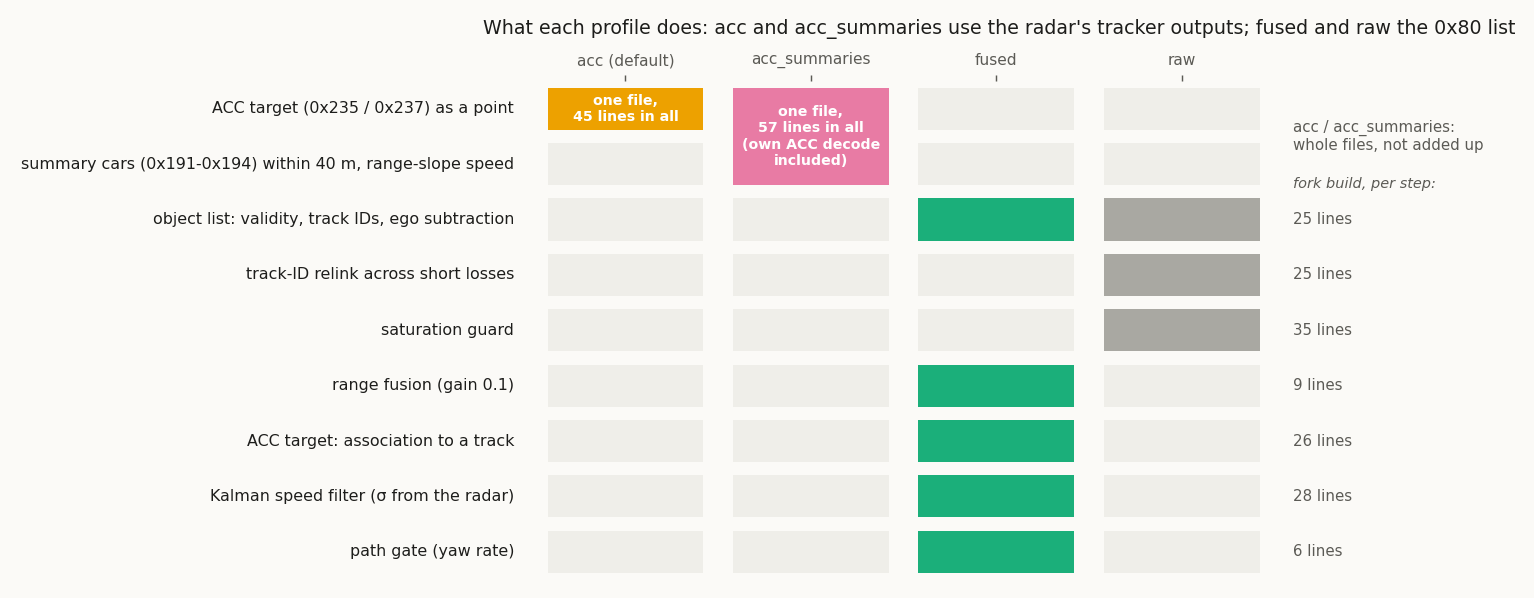
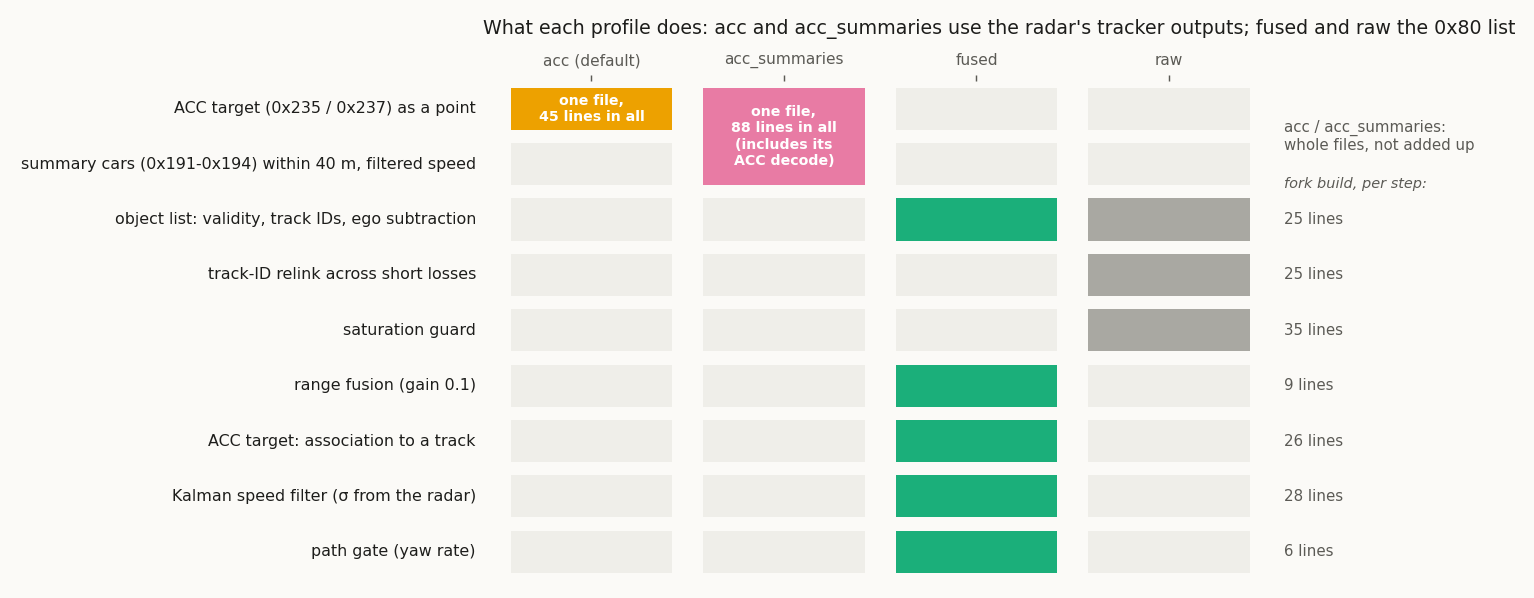
feat(acc_summaries): summary-car speed from a Kalman filter on the radar clock (#216)
* feat(acc_summaries): summary-car speed from a Kalman filter on the radar clock

A summary range is the radar tracker's range rounded down to 1/16 m. A
constant-velocity Kalman filter per pair code, run on the radar's own
0x190 cycle clock and fed the middle of each range step, replaces the
8-range least-squares slope over CAN time (kept as the fallback when no
0x190 clock is seen). Publication timing is unchanged.

Against the ACC target's own speed on the same car: RMS 0.166 -> 0.142
m/s, p99 0.61 -> 0.51 (owner car); 0.170 -> 0.157 (second car).
Replay over 23 moving h (four sets): hard 14 = 14, mild 46 = 46, missed
unchanged, unnecessary 32.2 -> 32.1 s, flips 342 -> 341 /h. 63 -> 81 code
lines. Numbers: data/analysis/summaries/accsum_summary_speed.json.

* review: readable speed filter, jitter test, updated line counts and figure

- kf_step: docstring, named constants (STEP_M, KF_P0_V, KF_MIN_N, CYCLE_S),
  predict / update steps commented; numerically identical to the previous
  commit (0.0 difference over 120,000 random steps with gaps and re-sends).
- Test: summary speeds are exactly unchanged by 20 ms CAN arrival jitter,
  and the slope fallback works without 0x190 (the previous file fails it).
- Line counts 81 -> 88 (repo counter) in README and docs 08 / 11 / 17;
  profile_layers.png regenerated, its acc_summaries label no longer overflows.
- docs/05 selection rule and docs/11 speed text split into short bullets.
[…]

diff --git a/openpilot/standalone/ars510_acc_summaries.py b/openpilot/standalone/ars510_acc_summaries.py
@@ -2,10 +2,12 @@
 
 The radar's ACC target (0x235 / 0x237) is published as in `acc`. The target summaries add up to two more moving cars from
 the same tracker: range and lateral in 0x192 / 0x194, a pair code in 0x191 / 0x193 (trackId 64 + code). A summary within
-1 m / 0.5 m of the ACC point is that car and is skipped. vRel is the least-squares slope of the code's last 8 ranges
-over CAN time (the 8 must span less than 0.6 s). Summaries beyond 40 m are left out: radard cannot tell a neighbouring
-lane from the camera's farther lead there (at 47-58 m it took such a car as the lead before the radar's ACC picked
-the real one). Evidence and replay numbers: docs/11 ("acc_summaries").
+1 m / 0.5 m of the ACC point is that car and is skipped. A car is published once its code has 8 ranges within 0.6 s.
+Summaries beyond 40 m are left out: radard cannot tell a neighbouring lane from the camera's farther lead there (at 47-58 m
+it took such a car as the lead before the radar's ACC picked the real one).
+Speed (vRel): a summary range is the radar tracker's range rounded down to 1/16 m, so each car gets a constant-velocity
+Kalman filter, timed by the radar's own cycle clock (0x190) and fed the middle of each 1/16 m step. Without that clock the
+speed is the least-squares slope of the last 8 ranges over CAN time. Evidence and replay numbers: docs/11 ("acc_summaries").
 Forks whose RadarPoint still has aRel / yvRel / measured get them filled: the ACC point's aRel is the target's own relative
 acceleration (0x235 REL_ACCEL) and its yvRel its lateral speed (0x235 LAT_SPEED, d(LAT_DIST)/dt in the car's frame, left
 positive, unwrapped by its check byte); a summary car's yvRel is the slope of its last 8 laterals and its aRel NaN (not sent
@@ -21,6 +23,10 @@ from opendbc.car.interfaces import RadarInterfaceBase
 
 # JUMP_M: a range step this large between cycles is a glitch, a new car, or two cars sharing a pair code (codes are per slot)
 STALE_S, FAR_M, SLOPE_N, SLOPE_SPAN_S, JUMP_M, SUMMARY_ID = 0.5, 40.0, 8, 0.6, 5.0, 64  # summary trackIds: 64 + pair code
+# summary speed filter: range step (m), acceleration noise density (m^2/s^3), initial speed variance (m^2/s^2), restart gap (s),
+# updates before its speed is used, and how long after a 0x190 cycle header its summaries count as that cycle (s)
+STEP_M, KF_Q, KF_P0_V, KF_GAP_S, KF_MIN_N, CYCLE_S = 1 / 16, 0.05, 25.0, 0.3, 5, 0.03
+KF_R = STEP_M ** 2 / 12  # variance of the range inside one step
 # 0x235 LAT_SPEED and 0x237 LAT_DIST are the low 11 / 12 bits of one-bit-wider values: beyond +12.8 m/s / +20.95 m they wrap
 # by 25.6 m/s / 40.96 m. The check byte (CRC-8 over the signals, linear: constant ^ one column per payload bit from byte 1
 # bit 7; docs/05) then leaves the remainder 0x9C / 0x14 instead of 0. Per address: (constant, wrap remainder, columns).
@@ -44,6 +50,22 @@ def slope(hist, k):  # least-squares slope of column k (1 range, 2 lateral) over
   return sum((h[0] - tm) * (h[k] - xm) for h in hist) / sum((h[0] - tm) ** 2 for h in hist)
 
 
+def kf_step(s, tr, d):
+  """One constant-velocity Kalman filter step for a summary car's range d (m) at radar time tr (s).
+  s = (range, speed, P00, P01, P11, radar time, updates), or None to start."""
+  z = d + STEP_M / 2  # the tracker's range lies in [d, d + 1/16): measure the middle
+  if s is not None and tr == s[5]:  # the same cycle again: nothing new
+    return s
+  if s is None or not 0 < tr - s[5] < KF_GAP_S:  # first range or a gap: start at rest with a wide speed variance
+    return (z, 0.0, KF_R, 0.0, KF_P0_V, tr, 1)
+  x, v, p00, p01, p11, t0, n = s
+  dt = tr - t0
+  x += v * dt  # predict
+  p00, p01, p11 = p00 + 2 * dt * p01 + dt * dt * p11 + KF_Q * dt ** 3 / 3, p01 + dt * p11 + KF_Q * dt * dt / 2, p11 + KF_Q * dt
+  k0, k1, e = p00 / (p00 + KF_R), p01 / (p00 + KF_R), z - x  # update with the range
+  return (x + k0 * e, v + k1 * e, (1 - k0) * p00, (1 - k0) * p01, p11 - k1 * p01, tr, n + 1)
+
+
 def point(track_id, d, y, v, a=float("nan"), yv=float("nan")):
   return RadarData.RadarPoint(trackId=track_id, dRel=d, yRel=y, vRel=v, **{k: x for k, x in {"aRel": a, "yvRel": yv, "measured": True}.items() if k in LEGACY})
 
@@ -53,6 +75,8 @@ class RadarInterface(RadarInterfaceBase):
     super().__init__(CP, *args)
     self.acc = self.pos = self.last_t = None
     self.fault, self.ident, self.summaries, self.hist = 0, {}, {}, {}
+    self.kf = {}  # speed filter state per pair code
+    self.clock = None  # last 0x190: (CAN time, radar time in s, radar µs counter)
 
   def update(self, can_packets):
     self.frame += 1
@@ -68,6 +92,10 @@ class RadarInterface(RadarInterfaceBase):
         elif address == 0x237 and len(dat) == 8:  # distance, lateral (left positive); bit 10 = target present
           self.last_t, self.pos = t, ((bits(dat, 39, 13) * 0.025, (bits(dat, 27, 12) - 2000) * 0.01 + 40.96 * wrapped(0x237, dat))
                                       if bits(dat, 10, 1) else None)
+        elif address == 0x190 and len(dat) >= 6 and dat[0] != 0xFF:  # cycle header: radar µs counter in bytes 2-5
+          us = int.from_bytes(dat[2:6], "big")
+          radar_t = us * 1e-6 if self.clock is None else self.clock[1] + ((us - self.clock[2]) % (1 << 32)) * 1e-6  # counter wraps
+          self.clock = (t, radar_t, us)
         elif address == 0x196 and len(dat) >= 2:  # fault flag: every cycle while blocked; one cycle at power-up
           self.fault = self.fault + 1 if dat[1] & 1 else 0
         elif address in (0x191, 0x193) and len(dat) == 8:  # byte 0 >> 1: score (127 = no car), byte 3 >> 2: pair code
@@ -80,6 +108,9 @@ class RadarInterface(RadarInterfaceBase):
             hist = self.hist.setdefault(code, deque(maxlen=SLOPE_N))
             if hist and abs(d - hist[-1][1]) > JUMP_M:  # no car moves 5 m in one 60 ms cycle: restart rather than slope through it
               hist.clear()
+            tr = self.clock[1] if self.clock is not None and 0 <= t - self.clock[0] < CYCLE_S else None  # this cycle's radar time
+            prev = self.kf.get(code) if hist else None  # a cleared history restarts the filter too
+            self.kf[code] = kf_step(prev, tr, d) if tr is not None else None
             hist.append((t, d, y))
             self.summaries[address] = (code, d, y, t)
     if t is None or self.frame % 5 != 0:  # card calls update at 100 Hz: report at 20 Hz
@@ -92,6 +123,8 @@ class RadarInterface(RadarInterfaceBase):
     for code, d, y, ts in filter(None, self.summaries.values()):
       hist, is_acc = self.hist[code], self.pos is not None and abs(d - self.pos[0]) < 1.0 and abs(y - self.pos[1]) < 0.5
       if t - ts < STALE_S and d <= FAR_M and not is_acc and len(hist) == SLOPE_N and hist[-1][0] - hist[0][0] < SLOPE_SPAN_S:
-        points.append(point(SUMMARY_ID + code, d, y, slope(hist, 1), yv=slope(hist, 2)))
+        kf = self.kf.get(code)
+        v = kf[1] if kf is not None and kf[6] >= KF_MIN_N else slope(hist, 1)
+        points.append(point(SUMMARY_ID + code, d, y, v, yv=slope(hist, 2)))
     ret.points = points  # assigned as a list: forks with capnp-backed structs (sunnypilot) take list assignment only
     return ret

diff --git a/tools/make_fused_figures.py b/tools/make_fused_figures.py
@@ -129,7 +129,7 @@ def layers() -> None:
     # columns: acc, acc_summaries, fused, raw (the recommended order)
     acc_n, accs_n = acc_lines(), acc_lines("openpilot/standalone/ars510_acc_summaries.py")
     rows = [("ACC target (0x235 / 0x237) as a point", None, (1, 1, 0, 0)),
-            ("summary cars (0x191-0x194) within 40 m, range-slope speed", None, (0, 1, 0, 0)),
+            ("summary cars (0x191-0x194) within 40 m, filtered speed", None, (0, 1, 0, 0)),
             ("object list: validity, track IDs, ego subtraction", n(NativeTrackIdAssigner.update, I._fresh_ego_speed), (0, 0, 1, 1)),
             ("track-ID relink across short losses", n(I._relink), (0, 0, 0, 1)),
             ("saturation guard", n(I._guard), (0, 0, 0, 1)),
@@ -154,7 +154,7 @@ def layers() -> None:
     ax.text(0.5, top + 0.5, f"one file,\n{acc_n} lines in all", ha="center", va="center", fontsize=7.8, color="white", fontweight="bold")
     ax.add_patch(plt.Rectangle((0.08, top - 1 + 0.12), 0.84, 0.76, color="#efeee9", lw=0))
     ax.add_patch(plt.Rectangle((1.08, top - 1 + 0.12), 0.84, 1.76, color=ACCS, lw=0))
-    ax.text(1.5, top + 0.5 - 0.5, f"one file,\n{accs_n} lines in all\n(own ACC decode\nincluded)", ha="center", va="center",
+    ax.text(1.5, top + 0.5 - 0.5, f"one file,\n{accs_n} lines in all\n(includes its\nACC decode)", ha="center", va="center",
             fontsize=7.8, color="white", fontweight="bold")
     ax.text(4.1, top + 0.5 - 0.5, "acc / acc_summaries:\nwhole files, not added up", ha="left", va="center", fontsize=8.3, color=INK2)
     ax.text(4.1, top - 2 + 1.02, "fork build, per step:", ha="left", va="bottom", fontsize=8.0, color=INK2, style="italic")

diff --git a/tests/test_standalone_profiles.py b/tests/test_standalone_profiles.py
@@ -127,6 +127,30 @@ def test_acc_summaries_restarts_the_speed_after_a_one_cycle_range_jump(mod):
   assert all(abs(v - (-6.0)) < 0.5 for _, v in speeds) and any(k > 32 for k, _ in speeds)
 
 
+def test_acc_summaries_speed_follows_the_radar_clock_not_can_arrival(mod):
+  """Summary speeds come from a filter timed by the radar's 0x190 cycle clock: CAN arrival jitter (here up to 20 ms per cycle)
+  leaves them exactly unchanged. Without 0x190 the 8-range slope over CAN time still gives the speed."""
+  if not hasattr(mod, "SUMMARY_ID"):
+    pytest.skip("acc_summaries only")
+  import random
+
+  def speeds(jitter_ns, clock=True):
+    rng, ri, out_v = random.Random(7), mod.RadarInterface(None), []
+    for k in range(60):
+      j = int(rng.uniform(0, jitter_ns))
+      for nanos, frames in _cycle(k, 30.0 - 0.24 * k, [(3, None, 0.0), (9, 39.0 - 0.36 * k, 3.6)]):
+        if frames[0][0] == 0x190 and not clock:
+          continue
+        out = ri.update([(nanos + (0 if frames[0][0] == 0x190 else j), frames)])
+        if out is not None and k > 20:
+          out_v += [p.vRel for p in out.points if p.trackId >= mod.SUMMARY_ID]
+    return out_v
+
+  steady, jittered, no_clock = speeds(0), speeds(20e6), speeds(0, clock=False)
+  assert steady and jittered == steady and max(abs(v + 6.0) for v in steady) < 0.15  # true speed -6 m/s
+  assert no_clock and max(abs(v + 6.0) for v in no_clock) < 0.15
+
+
 def test_acc_summaries_unwraps_a_wrapped_acc_lateral_distance(mod):
   if mod.__name__ != "ars510_acc_summaries":
     pytest.skip("acc_summaries only")

diff --git a/data/README.md b/data/README.md
@@ -65,7 +65,7 @@ replay routes and closed-loop drives. The full captures are held in the research
 | [07 Velocity excursions](../docs/07_velocity_excursions.md) | `acc_unit_recompute` (error per `240\|7` code and excursion incidence at 0.125 m/s per code), `excursion_sigma_scale` (the same analysis at the 0.1 m/s ACC unit: per-code curves for the figure, signal scan, state model), `frame_trust_classifier`, `waveform_source`, `video_truth` (optical reference), `jitter_problem_figures` (real-drive census, roughness), `jitter_source_and_interface_limit` |
 | [08 openpilot integration](../docs/08_openpilot_integration.md) | `road_v21` (fused 2.1.0 on the road and issue #66), `acc_road_drives` (owner road drives with `acc` on sunnypilot and the first two with `acc_summaries` on StarPilot), `openpilot_integration_replay`, `driver_agreement_preregistered` (the pre-registered radar-vs-vision test), `radard_vision_fusion` (the optional radard patch), `radar_health` (radar bus-1 start against fingerprinting and card start, ACC-target continuity, `acc` canError, status bits; also used by doc 01) |
 | [10 Research directions](../docs/10_research_directions.md) | `stock_acc_law` (Toyota's 0x343 command against its ACC target on two cars: fitted law, set-speed cap, far-lead response), `stock_acc_unfiltered` (50 min of a second car's stock ACC without a filter board: law fit, far closings, cut-in, stops, `PERMIT_BRAKING`, the board's 0x343 rewrite, 0x411 after an object-list outage), `radard_side_options` (the radar's acceleration, vision fusion and per-point variance in a patched radard) |
-| [11 Profiles compared](../docs/11_profiles_compared.md) | `accsum_optional_fields` (`acc_summaries`' aRel / yvRel / measured: replay before and after, lateral prediction), `profiles_vs_vision` (`raw`, `fused`, `acc` and `acc_summaries` against vision only on the 27 replay drives), `acc_summaries_profile` (`acc_summaries` against `acc` and `fused`: every drive set, both held-out sets, replay differences, cut-ins, lead source), `yardstick_check` (oracle vs a camera-only reference; saturated camera-model drives), `timing_launch_health` (radar output age, ACC speed unit, launches, the 0x196 fault flag, night 0x240 range), `cutin_signals` (when the ACC target switch, the lane-crossing code and the in-path fields name a cutting-in car, against the camera model and radard), `acc_summaries_40m` (`acc_summaries` at a 40 m summary limit against `acc` and the 60 m form on the fast suite, both held-out sets and every drive no replay set had used: per-set and pooled numbers, the fast suite split by drive set, close cut-ins, the held-out mechanism, an independent recount) |
+| [11 Profiles compared](../docs/11_profiles_compared.md) | `accsum_summary_speed` (summary-car speed filter: error and replay against the former slope), `accsum_optional_fields` (`acc_summaries`' aRel / yvRel / measured: replay before and after, lateral prediction), `profiles_vs_vision` (`raw`, `fused`, `acc` and `acc_summaries` against vision only on the 27 replay drives), `acc_summaries_profile` (`acc_summaries` against `acc` and `fused`: every drive set, both held-out sets, replay differences, cut-ins, lead source), `yardstick_check` (oracle vs a camera-only reference; saturated camera-model drives), `timing_launch_health` (radar output age, ACC speed unit, launches, the 0x196 fault flag, night 0x240 range), `cutin_signals` (when the ACC target switch, the lane-crossing code and the in-path fields name a cutting-in car, against the camera model and radard), `acc_summaries_40m` (`acc_summaries` at a 40 m summary limit against `acc` and the 60 m form on the fast suite, both held-out sets and every drive no replay set had used: per-set and pooled numbers, the fast suite split by drive set, close cut-ins, the held-out mechanism, an independent recount) |
 | [12 Kalman speed filter](../docs/12_kalman_filter.md) | `fused_filter` (parameters, ablations and combinations of fused 2.0, radard cascade, ACC weight at the 0.1 m/s ACC unit), `acc_weight` (the ACC target's weight: 0.5 / 0.3 / 0.13 m/s in 2.4 / 2.5 / 2.6), `far_acc_only` (2.6: beyond 60 m only the ACC target's track; all drive sets), `hard_braking_review`, `tracker_association`, `lead_choice_guards` (the 0.4 x ACC match and the path gate; 2.3 and 2.4 replays), `oracle_reference`, `kalman_variants`, `kalman_response`, `summary_owner_case`, `second_car_replay` (2.5 and the slim variants, including the 2.6 far rule, on a second car's 8.8 h, gates fixed before the runs) |
 | [13 Car-bus messages](../docs/13_car_bus_messages.md) | `stock_acc_law` (0x343 through a car-bus filter board, standstill hold), `radar_car_bus_messages`, `target_366_coding`, `target_366_coverage`, `target_366_speed_domain`, `pcs_flag_0x344` (0x320 bit 13 by replayed message on O5, dash warning timing), `filter_follow_distance_button` (the filter's 0x2FF follow-distance bit: 7 presses in 663 owner segments, the personality-change chain, frame layout, the no-filter cases), `object_size_provenance` (object-list class / size against camera association; the ACC target's width and class code over every stored log), `car_bus_0x366_fields` (0x366 against the leaked layout, the target number, the PCS alarm bit), `carbus_feedback` (`PERMIT_BRAKING` against the car's brake feedback, the filter board's 0x2FF and 0x343 handling, cruise-button bits, 0x283 `STATE` 4 in Park) |
 | [14 Forks](../docs/14_forks.md) | `fork_lead_handling` (sunnypilot, FrogPilot and StarPilot radard and MPC lead handling run on drives U1-U2 (a second car) and O6-O7 (the owner's car) and on synthetic cases: lead supplier, braking demand added by radar noise against the ACC-target reference, braking added or removed against vision only, StarPilot's two lead paths, FrogPilot's radar-only leads, code constants per fork) |

diff --git a/docs/11_profiles_compared.md b/docs/11_profiles_compared.md
@@ -20,11 +20,11 @@ Numbers: [`profiles_vs_vision.json`](../data/analysis/summaries/profiles_vs_visi
 | | `acc` (default) | `acc_summaries` | `fused` | `raw` |
 |---|---|---|---|---|
 | radar cars published | the one car the radar's ACC function follows | the ACC car plus up to two other moving cars from the summaries (the radar's two nearest movers), within 40 m | every radar car (60 m and closer); beyond 60 m only the car the ACC target follows | every radar car |
-| source | ACC target frames 0x235 / 0x237 | ACC target + target summaries 0x191-0x194, speed from the range slope | object list 0x80 + ACC target, one Kalman speed filter per track | object list 0x80 |
+| source | ACC target frames 0x235 / 0x237 | ACC target + target summaries 0x191-0x194, speed from a Kalman filter on their range | object list 0x80 + ACC target, one Kalman speed filter per track | object list 0x80 |
 | range of the followed car | ACC distance, 0.025 m per code | ACC distance (summary range, 1/16 m, for the others) | ACC distance (object-list range for other tracks) | object-list range |
 | other cars | camera, through radard's usual vision match | two radar cars and camera | radar and camera | radar and camera |
-| code | 45 code lines reading 7 DBC signals ([17](17_upstream.md#the-acc-target-alone--candidate)) | 63 code lines, no DBC | 187 code lines in the openpilot file ([17](17_upstream.md#parts-of-the-openpilot-file)) | fork build: relink and saturation guard on the shared decode |
-| tuned constants | protocol values only | 40 m limit, 8-range slope, ACC match 1 m / 0.5 m | sigma scale, young-track factor, process noise, clamp, readiness, path gate, far rule, ACC weight ([12](12_kalman_filter.md#the-model)) | protocol values only |
+| code | 45 code lines reading 7 DBC signals ([17](17_upstream.md#the-acc-target-alone--candidate)) | 88 code lines, no DBC | 187 code lines in the openpilot file ([17](17_upstream.md#parts-of-the-openpilot-file)) | fork build: relink and saturation guard on the shared decode |
+| tuned constants | protocol values only | 40 m limit, speed-filter noise, ACC match 1 m / 0.5 m | sigma scale, young-track factor, process noise, clamp, readiness, path gate, far rule, ACC weight ([12](12_kalman_filter.md#the-model)) | protocol values only |
 | hard radar-only braking ticks, 20 held-out routes, moving | 14 | 14 | 16 | 93 |
 | braking only the radar asked for, per hour (driver on the gas) | 0 (0) | 0 (0) | 0 (0) | 1.75 (0.66) |
 | first braking request vs vision only (95 % CI) | −0.04 s (−0.09 … +0.00) | −0.04 s (−0.09 … +0.00) | −0.01 s (−0.06 … +0.03) | −0.15 s (−0.26 … −0.05) |
@@ -170,12 +170,17 @@ routes): radard took a summary car at 47-58 m as its lead before the radar's ACC
 
 The target summaries (0x191-0x194, [05](05_acc_target_and_support.md#0x191-0x194-selected-target-summaries)) carry the two
 nearest moving vehicles of the same internal tracker that drives the ACC target. `acc_summaries`
-([`openpilot/standalone/ars510_acc_summaries.py`](../openpilot/standalone/ars510_acc_summaries.py), 63 code lines,
+([`openpilot/standalone/ars510_acc_summaries.py`](../openpilot/standalone/ars510_acc_summaries.py), 88 code lines,
 no DBC) publishes them next to the ACC target:
 - **The ACC car once.** A summary within 1 m / 0.5 m of the ACC point is that car and is not published again.
-- **Identity and speed.** Every other summary is `trackId 64 + code` (its pair code). Its speed is the least-squares
-  slope of that code's last 8 ranges over CAN time, published once the 8 span less than 0.6 s, so a code that returns
-  after a gap does not mix old and new ranges.
+- **Identity.** Every other summary is `trackId 64 + code` (its pair code). It is published once its code has 8 ranges
+  within 0.6 s, so a code that returns after a gap does not mix old and new ranges.
+- **Speed.** A summary range is the tracker's range rounded down to 1/16 m. Each code gets a constant-velocity Kalman
+  filter, timed by the radar's own cycle clock (0x190) and fed the middle of each 1/16 m step; without that clock the
+  speed is the slope of the last 8 ranges over CAN time. Against the ACC target's own speed on the same car the filter
+  has 0.142 m/s RMS error where that slope had 0.166 (second car 0.157 against 0.170; 99th percentile 0.51 against
+  0.61 m/s), and it brakes the same in replay (23 moving h: hard, mild and missed unchanged, unnecessary 32.2 → 32.1 s;
+  [`accsum_summary_speed.json`](../data/analysis/summaries/accsum_summary_speed.json)).
 - **Optional point fields, for forks.** On forks whose RadarPoint still has `aRel` / `yvRel` / `measured`, the ACC point
   carries the radar's own `REL_ACCEL` as `aRel` and `LAT_SPEED` as `yvRel` (d(LAT_DIST)/dt in the car's frame, left
   positive; a wrapped value is restored from the frame's check byte); a summary car carries the slope of its last 8 laterals
@@ -234,8 +239,8 @@ Replayed against `acc` on the fast suite, both held-out sets and every captured 
 | an all-tracks candidate for upstream, in one file | `openpilot` (`fused` in `upstream/ars510_radar.py`) |
 | research on the object list's own errors | `raw` |
 
-`acc` publishes the followed car; Toyota's own ACC follows that same car. `acc_summaries` adds the other
-moving cars among the two nearest movers the radar's tracker reports. `fused` keeps the radar's other cars, which
+`acc` publishes the followed car; Toyota's own ACC follows that same car. `acc_summaries` adds the radar
+tracker's two nearest moving cars when they are not that car. `fused` keeps the radar's other cars, which
 radard matches to the camera's lead through its distance and speed gates.
 
 ## How each profile works

diff --git a/docs/08_openpilot_integration.md b/docs/08_openpilot_integration.md
@@ -59,7 +59,7 @@ What sunnypilot, FrogPilot and StarPilot each do with a radar lead, and how the 
    the same packets. Cost of the object-list decode: about 6-14 µs per 10 ms call on a desktop CPU.
 4. **Output.** `acc`: one `RadarPoint(trackId, dRel, yRel, vRel)` for the radar's ACC target while its target-present
    flags are set, reported once per radar cycle (16.6 Hz, when the radar's cycle clock in 0x239 advances). `acc_summaries`: that point plus up to two summary cars within 40 m (`trackId` 64 + pair code, speed from
-   the slope of the last 8 ranges), reported every fifth card update (20 Hz). Object-list profiles: `RadarPoint(trackId, dRel, yRel, vRel)`
+   a Kalman filter on the radar's cycle clock), reported every fifth card update (20 Hz). Object-list profiles: `RadarPoint(trackId, dRel, yRel, vRel)`
    for tracks aged ≥ 60 cycles (with `fused`, also once the filter's speed standard deviation is at most 0.75 m/s), with
    the radar's own track IDs (`raw` also re-links them across short losses), published while a fresh ego speed gives a
    finite vRel. Forks whose RadarPoint still has the legacy fields (sunnypilot) also get:
@@ -125,7 +125,7 @@ on the same drives.
 | profile | what it is | when to use |
 |---|---|---|
 | **`acc`** (default) | the radar's ACC target alone as one point ([`upstream/ars510_acc_target.py`](../upstream/ars510_acc_target.py) with [`toyota_tss2_ars510.dbc`](../upstream/toyota_tss2_ars510.dbc), 45 code lines, opendbc's CANParser; the upstream proposal): the car Toyota's own ACC follows, published as soon as the radar picks it; every other car comes from the camera ([17](17_upstream.md#the-acc-target-alone--candidate)) | everyday driving and the opendbc-compatible upstream proposal: braking equal to `fused` in replay (0.21 % of moving time differs), less unnecessary braking and fewer lead flips on held-out drives ([11](11_profiles_compared.md#why-acc-is-the-default)) |
-| `acc_summaries` | `acc` plus up to two more cars from the radar's own tracker: the target summaries 0x191-0x194 within 40 m, with the ACC car published once and a speed from each summary's range slope ([`openpilot/standalone/ars510_acc_summaries.py`](../openpilot/standalone/ars510_acc_summaries.py), 57 code lines) | the main alternative: braking as `acc` over every replay, held-out drives included; radar-backed cut-ins 0.09 s earlier, more lead flips; two short road drives so far ([11](11_profiles_compared.md#acc_summaries-acc-plus-the-summary-cars), [on the road](#on-the-road)) |
+| `acc_summaries` | `acc` plus up to two more cars from the radar's own tracker: the target summaries 0x191-0x194 within 40 m, with the ACC car published once and a speed from a Kalman filter on each summary's range ([`openpilot/standalone/ars510_acc_summaries.py`](../openpilot/standalone/ars510_acc_summaries.py), 88 code lines) | the main alternative: braking as `acc` over every replay, held-out drives included; radar-backed cut-ins 0.09 s earlier, more lead flips; two short road drives so far ([11](11_profiles_compared.md#acc_summaries-acc-plus-the-summary-cars), [on the road](#on-the-road)) |
 | `fused` | `FUSED_CONFIG`: the `raw` decode with range fusion and one Kalman speed filter that weights the object list and the radar's ACC target by their own uncertainty ([12](12_kalman_filter.md#the-model)), plus a path gate against next-lane leads ([12](12_kalman_filter.md#path-gate)); the filter makes `raw`'s relink and saturation guard redundant | every radar car within 60 m, with the longest road record and 0 radar-only braking per hour on the held-out drives ([11](11_profiles_compared.md)) |
 | `openpilot` | `fused` in one file ([`upstream/ars510_radar.py`](../upstream/ars510_radar.py)): opendbc style with `fused`'s filter, points with `trackId` / `dRel` / `yRel` / `vRel` only ([17](17_upstream.md#towards-an-upstream-comma-interface)) | driving the all-tracks upstream alternative |
 | `raw` | `BASE_CONFIG`: the unfiltered radar decode plus what radard needs (tracks from age 60, ego-speed subtraction, invalid-code guard) | research and comparison; velocity excursions reach the planner |

diff --git a/docs/05_acc_target_and_support.md b/docs/05_acc_target_and_support.md
@@ -279,17 +279,17 @@ percentile 2.3-4.2 m/s) where a per-track slope has 0.25 m/s (0.95). Restart it 
 ([`function_tracker_outputs.json`](../data/analysis/summaries/function_tracker_outputs.json), block
 `summary_slot_identity_and_slope`).
 
-**Which cars: the two nearest movers (◐, two cars, exploratory).** The two pairs hold the tracker's two nearest moving tracks by
-range (over-ground speed above about 2.5-3 m/s, the nearer one in 0x191 / 0x192), with a few cycles of incumbency. The ACC car is
-one of them only when it is among the two nearest. The rule "two nearest object-list movers by range" reproduces the radar's
-exact summary set on 90 % / 86 % of moving cycles (owner held-out drives / second car). "ACC target plus the nearest other car"
-reproduces 73 / 69 %, and "lowest time to collision" 65 / 55 %. Lateral or path bands do not improve on plain range order.
-List movers ranked first / second / third by range are covered 74 / 52-54 / 7-8 %, which is why the summaries hold about a
-third of the moving cars. Stopped cars never appear: the ACC car is in a summary 0 % of the time at ≤ 2 m/s over ground and
-91-99 % above 4 m/s. So a non-ACC summary is the nearest other mover, mostly in a neighbouring lane, not a ranked
-"next lead" candidate. Its lateral path does not announce the hand-over to the ACC target (a path offset under 1.5 m comes
-first on only 49-59 % of hand-overs), and no selection-based gate makes summaries beyond 40 m safe to publish
-([`summary_selection.json`](../data/analysis/summaries/summary_selection.json)).
+**Which cars: the two nearest movers (◐, two cars, exploratory).** The two pairs hold the tracker's two nearest moving
+tracks by range, the nearer one in 0x191 / 0x192 ([`summary_selection.json`](../data/analysis/summaries/summary_selection.json)):
+- **Moving only.** Over-ground speed above about 2.5-3 m/s. A car at ≤ 2 m/s is never in a summary, so stopped cars never appear.
+- **The ACC car only when it is one of the two nearest.** Otherwise both pairs hold other cars.
+- **Plain range order.** "The two nearest object-list movers" reproduces the radar's exact choice on 90 % (owner, held-out
+  drives) and 86 % (second car) of moving cycles. "ACC target plus the nearest other car" reproduces 73 / 69 %, "lowest
+  time to collision" 65 / 55 %, and lateral or path bands do no better than range order.
+- **Why only a third of moving cars.** Two slots: the nearest, second and third list movers are covered 74, 52-54 and 7-8 % of the time.
+- **Not a "next lead" ranking.** A non-ACC summary is the nearest other mover, mostly in a neighbouring lane. Its lateral
+  path does not announce its hand-over to the ACC target (an offset under 1.5 m from the path comes first on only 49-59 %
+  of hand-overs), and no rule based on the selection makes summaries beyond 40 m safe to publish.
 
 **Summaries that are not the ACC target are further tracker-quality cars (◐, two cars, exploratory).** Each slot that does not hold the ACC
 target holds another track of the same internal tracker: up to two cars besides the lead (when the lead is farther than both), one on 32 % and two on 23 % of

diff --git a/docs/17_upstream.md b/docs/17_upstream.md
@@ -293,7 +293,7 @@ The closest relative in openpilot is the Tesla Model 3's Continental radar (`tes
 | GM | 71 | pass-through of the radar's targets |
 | Ford | 184 (272 lines in all) | clusters raw Delphi detections into tracks |
 | **ARS510 `acc` profile** ([`upstream/ars510_acc_target.py`](../upstream/ars510_acc_target.py)) | 33 | the radar's ACC target as one point: target-present flags; pass-through |
-| **ARS510 `acc_summaries`** ([`openpilot/standalone/ars510_acc_summaries.py`](../openpilot/standalone/ars510_acc_summaries.py)) | 53 | the ACC target plus up to two other moving cars from the radar's summaries within 40 m, speed from their range slope |
+| **ARS510 `acc_summaries`** ([`openpilot/standalone/ars510_acc_summaries.py`](../openpilot/standalone/ars510_acc_summaries.py)) | 88 | the ACC target plus up to two other moving cars from the radar's summaries within 40 m, speed from a Kalman filter on their range |
 | **ARS510 openpilot version** ([`upstream/ars510_radar.py`](../upstream/ars510_radar.py)) | 187 | `fused` in one file; part by part [above](#parts-of-the-openpilot-file) |
 | … transport, CRC, slot decode, track IDs, ego speed, RadarInterface wrapper | 103 | a 742-byte record from 106 CAN frames, 20 slots of bit fields |
 | … ACC target decode and association | 27 | match the radar's own ACC target to one track |

diff --git a/README.md b/README.md
@@ -90,7 +90,7 @@ against a hindsight lead ([11](docs/11_profiles_compared.md)). `acc` (default), 
   lead less often (−30 per hour, 95 % CI −44 … −16; −21 without drives whose camera model saturates its lead uncertainty) and publishes a newly seen stationary vehicle at once, where `fused`
   waits 3.6 s ([11](docs/11_profiles_compared.md#why-acc-is-the-default)). `fused` keeps every radar car within 60 m and
   has the most road drives behind it; `acc` has a small road record (nine drives, 1.6 engaged hours) ([08](docs/08_openpilot_integration.md#on-the-road)).
-- **`acc_summaries` adds up to two other moving cars from the radar's summaries** within 40 m to `acc`, in 63 code lines. Over every
+- **`acc_summaries` adds up to two other moving cars from the radar's summaries** within 40 m to `acc`, in 88 code lines. Over every
   replayed drive (23 moving h) it brakes like `acc` (the same hard episodes, unnecessary and missed braking within 0.04 s
   per hour), close cut-ins become radar-backed 0.09 s earlier, and it flips more (+26 per hour). The earlier 60 m limit
   braked slightly more than `acc` on held-out drives; 40 m removes that ([11](docs/11_profiles_compared.md#acc_summaries-acc-plus-the-summary-cars)). Two short road drives so far

diff --git a/docs/00_start_here.md b/docs/00_start_here.md
@@ -89,7 +89,7 @@ Its speed follows the slope of its own distance (best lag −0.06 s, gain 1.00; 
 openpilot unfiltered. Every other car reaches the planner through the camera.
 
 **`acc_summaries`** adds up to two other moving cars from the same tracker (the target summaries, which hold its two nearest movers) within
-40 m, each with a speed from the slope of its last 8 ranges; a summary at the ACC car's position is not published twice
+40 m, each with a speed from a Kalman filter on its range; a summary at the ACC car's position is not published twice
 ([11](11_profiles_compared.md#acc_summaries-acc-plus-the-summary-cars)).
 
 **`fused`** keeps the whole object list and estimates each car's speed over ground with one small Kalman filter per track.
